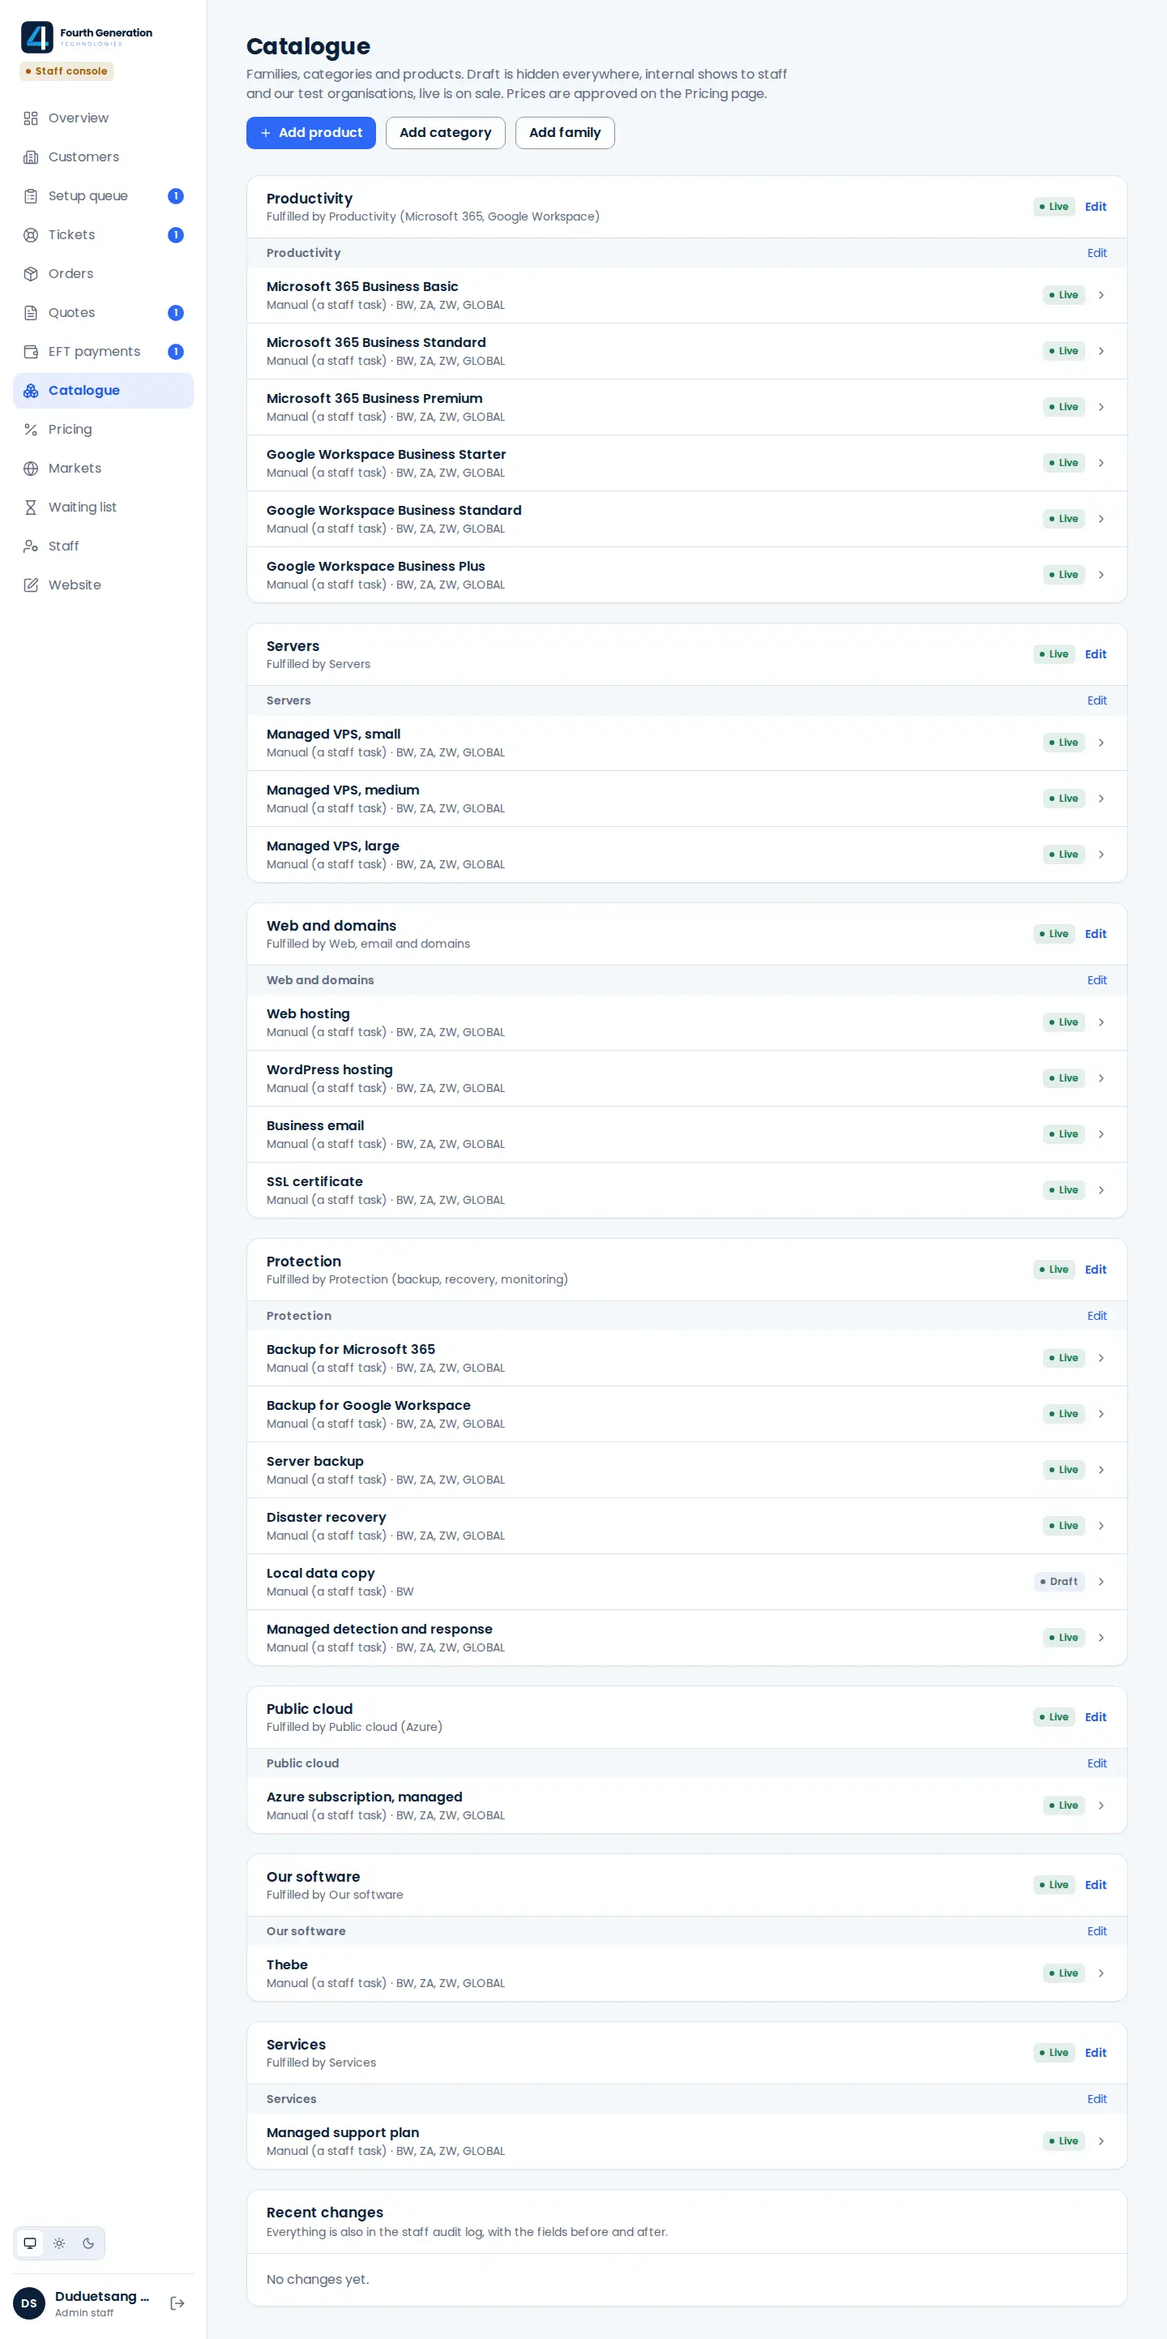
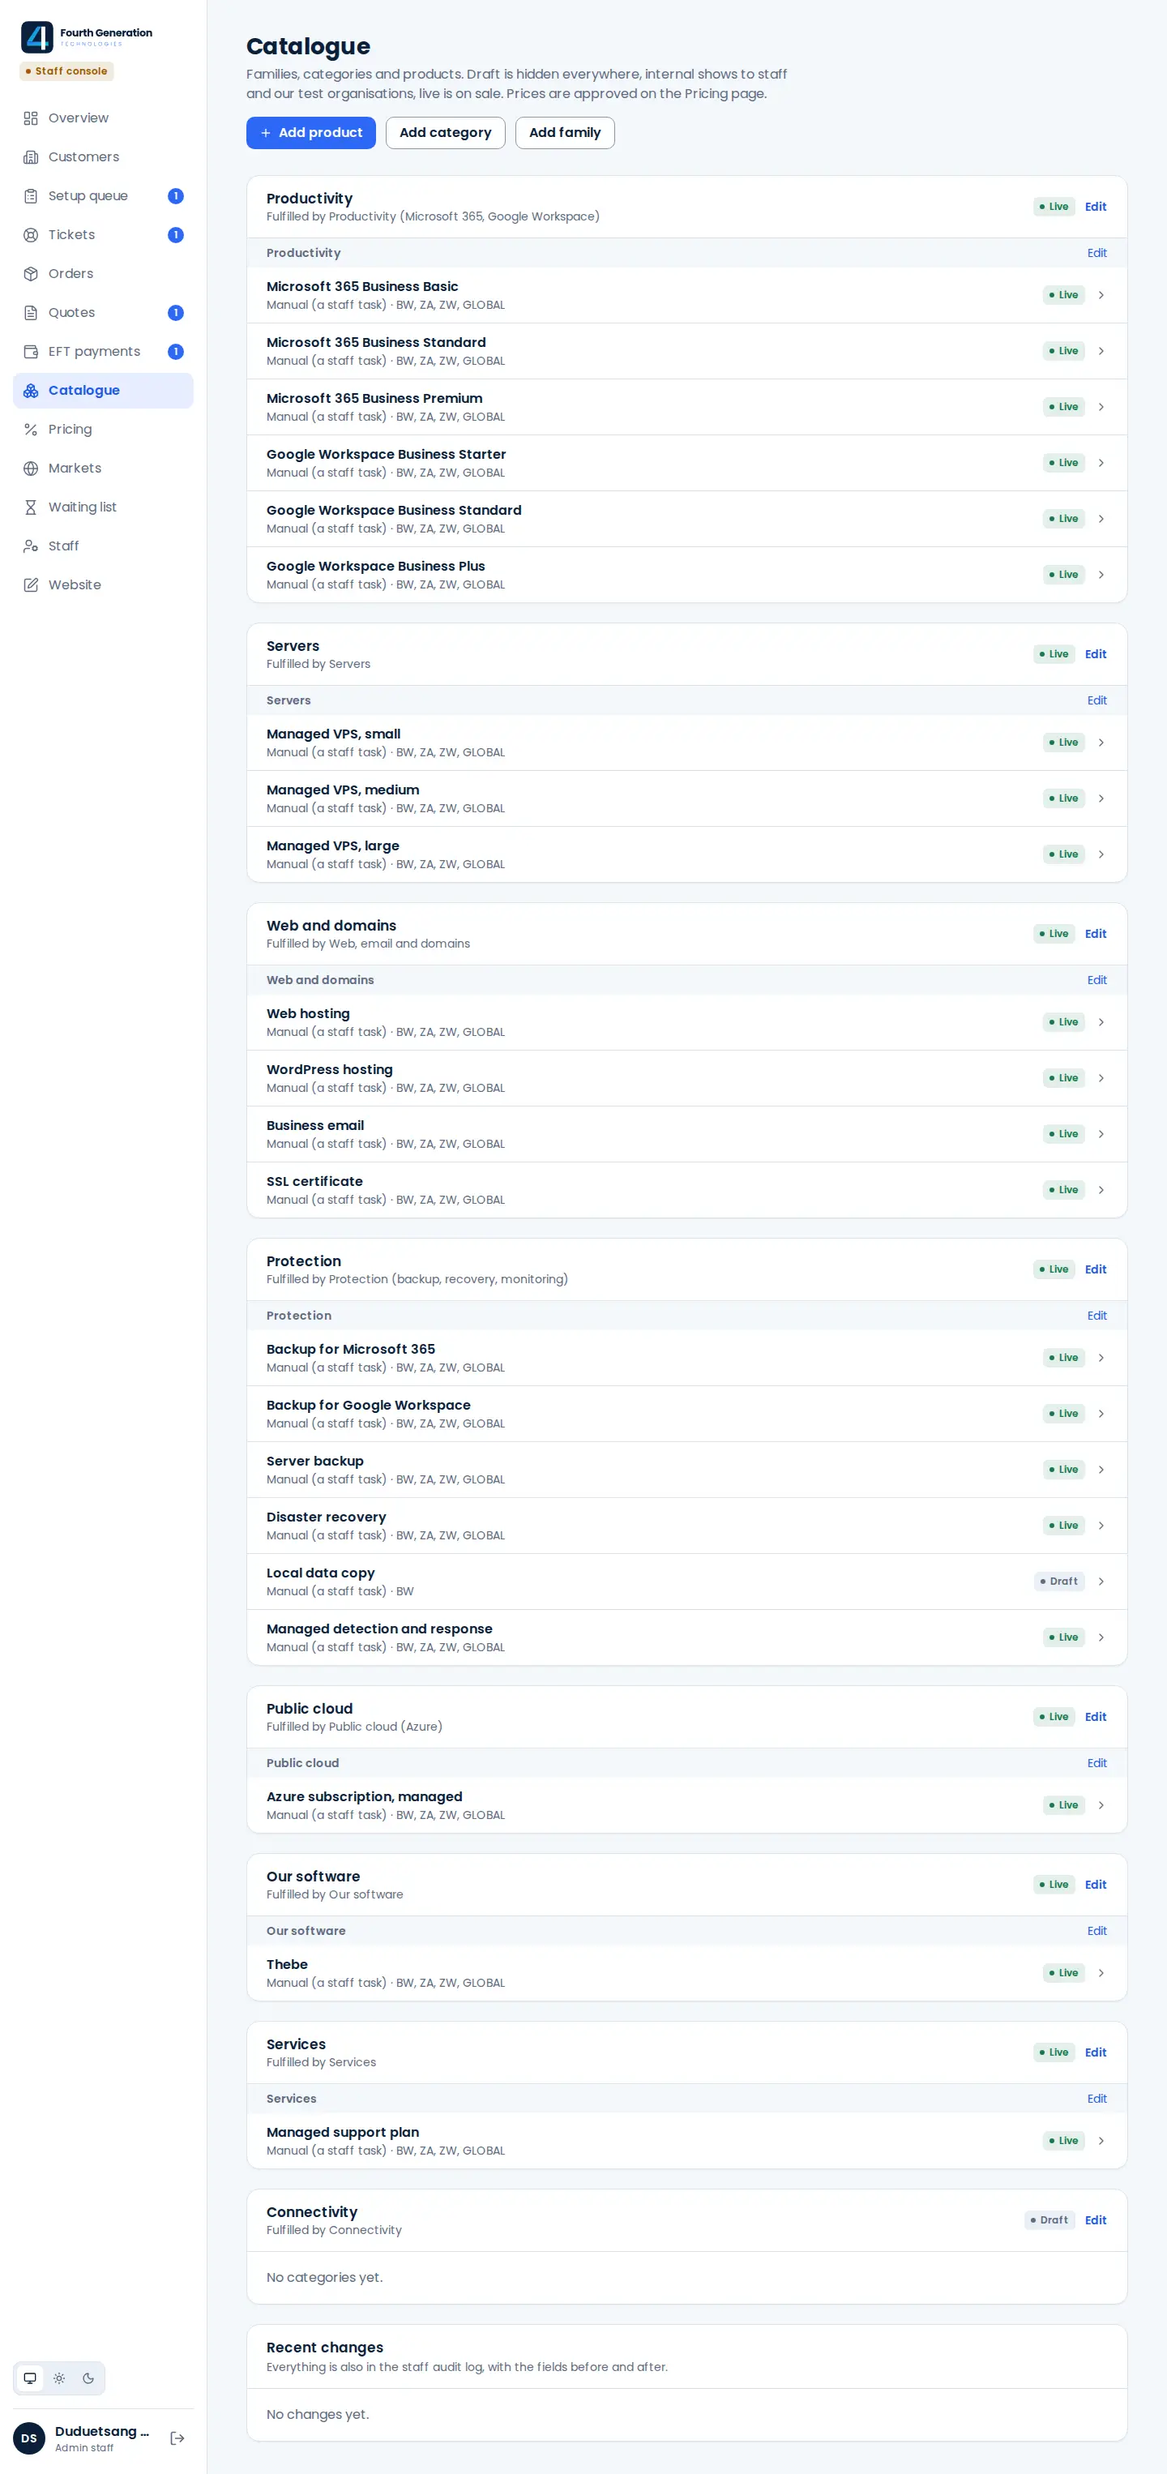
CR02 part 7: the Connectivity family
Adds Connectivity as a draft product family sold only by quote, with no
products and its own connector, hidden everywhere until an Admin sets it
live. A family can now say how all its products are sold. A new test
fails the build if internet, fibre, fiber or wireless appears in the
public site, the website seed content, the seeds or the console.

Claude-Session: https://claude.ai/code/session_01UhNK3Nd19ioVu9MXL1fYK2

diff --git a/src/server/admin/catalogue.ts b/src/server/admin/catalogue.ts
@@ -31,7 +31,10 @@ export const CONNECTOR_LABEL: Record<ConnectorFamily, string> = {
   PROTECTION: "Protection (backup, recovery, monitoring)",
   OUR_SOFTWARE: "Our software",
   SERVICES: "Services",
+  CONNECTIVITY: "Connectivity",
 };
+
+const FULFILMENT_WORDS: Record<Fulfilment, string> = { AUTOMATIC: "with automatic setup", MANUAL: "with setup by our team", QUOTE: "by quote" };
 
 export const FULFILMENT_LABEL: Record<Fulfilment, string> = { AUTOMATIC: "Automatic", MANUAL: "Manual (a staff task)", QUOTE: "Request a quote" };
 
@@ -104,6 +107,8 @@ export interface FamilyInput {
   description: string;
   connector: string;
   status: string;
+  /** "" lets each product choose; otherwise every product is sold this way. */
+  fulfilment?: string;
   sortOrder: string;
 }
 
@@ -136,9 +141,14 @@ export async function saveFamily(deps: CatalogueDeps, input: FamilyInput, existi
     description: text(input.description, "description", "a description", 200, errors),
     connector: input.connector as ConnectorFamily,
     status: input.status as CatalogueStatus,
+    fulfilment: (input.fulfilment || null) as Fulfilment | null,
     sortOrder: whole(input.sortOrder || "0", "sortOrder", "a position", 0, 999, errors),
   };
   if (!(input.connector in CONNECTOR_LABEL)) errors.connector = "Choose the connector that fulfils this family.";
+  if (data.fulfilment && !FULFILMENTS.includes(data.fulfilment)) errors.fulfilment = "Choose how its products are sold.";
+  else if (data.fulfilment === "AUTOMATIC" && data.connector in CONNECTOR_LABEL && !connectorFor(data.connector).automatic) {
+    errors.fulfilment = `The ${CONNECTOR_LABEL[data.connector]} connector can't set products up by itself yet.`;
+  }
   if (!STATUSES.includes(data.status)) errors.status = "Choose a status.";
   check(errors);
 
@@ -323,7 +333,9 @@ export async function saveProduct(deps: CatalogueDeps, input: ProductInput, exis
   if (!FULFILMENTS.includes(fields.fulfilment)) errors.fulfilment = "Choose how it is fulfilled.";
   if (!STATUSES.includes(fields.status)) errors.status = "Choose a status.";
   if (!fields.quantityAllowed) fields.minQuantity = 1;
-  if (category && fields.fulfilment === "AUTOMATIC" && !connectorFor(category.family.connector).automatic) {
+  if (category?.family.fulfilment && fields.fulfilment !== category.family.fulfilment) {
+    errors.fulfilment = `Everything in ${category.family.name} is sold ${FULFILMENT_WORDS[category.family.fulfilment]}.`;
+  } else if (category && fields.fulfilment === "AUTOMATIC" && !connectorFor(category.family.connector).automatic) {
     errors.fulfilment = `The ${CONNECTOR_LABEL[category.family.connector]} connector can't set products up by itself yet. Choose manual.`;
   }
   if (fields.status !== "DRAFT") {

diff --git a/tests/connectivity-words.test.ts b/tests/connectivity-words.test.ts
@@ -1,0 +1,58 @@
+import { readdirSync, readFileSync, statSync } from "node:fs";
+import { join } from "node:path";
+import { describe, expect, it } from "vitest";
+
+/**
+ * Change Request 02: until the Connectivity family is published, nothing
+ * the public or customers read may offer internet, fibre or wireless
+ * services. This scans the public site, the website editor's seed
+ * content, the catalogue and demo seeds, the console and its emails. The
+ * family's own name, "Connectivity", is the only word allowed.
+ */
+
+const BANNED = /\b(internet|fibre|fiber|wireless)\b/i;
+
+const ROOTS = [
+  // The public site and the console: pages, components, emails, the assistant's instructions.
+  "src/app",
+  "src/components",
+  "src/config",
+  "src/server",
+  // The website editor's seed content and blocks.
+  "src/cms",
+  // The demo seed and the catalogue migrations that add families and products.
+  "prisma/seed.ts",
+  "prisma/migrations",
+];
+const TEXT = /\.(tsx?|sql|json|md)$/;
+
+function* files(path: string): Generator<string> {
+  const s = statSync(path);
+  if (s.isFile()) {
+    if (TEXT.test(path) && !/\.test\.tsx?$/.test(path)) yield path;
+    return;
+  }
+  for (const name of readdirSync(path)) yield* files(join(path, name));
+}
+
+describe("connectivity words", () => {
+  it("appear nowhere in the site, the seeds or the console", () => {
+    const found: string[] = [];
+    for (const root of ROOTS) {
+      for (const file of files(root)) {
+        readFileSync(file, "utf8")
+          .split("\n")
+          .forEach((line, i) => {
+            const m = line.match(BANNED);
+            if (m) found.push(`${file}:${i + 1} says "${m[0]}"`);
+          });
+      }
+    }
+    expect(found).toEqual([]);
+  });
+
+  it("would catch one", () => {
+    for (const s of ["Fast Internet for your office", "fibre to the door", "Fiber links", "a wireless link"]) expect(BANNED.test(s)).toBe(true);
+    for (const s of ["Connectivity", "internetwork", "fibreglass"]) expect(BANNED.test(s)).toBe(false);
+  });
+});

diff --git a/src/server/catalogue/seed-data.ts b/src/server/catalogue/seed-data.ts
@@ -26,6 +26,9 @@ interface FamilySeed {
   description: string;
   connector: ConnectorFamily;
   sortOrder: number;
+  /** Live unless said otherwise. */
+  status?: "DRAFT";
+  fulfilment?: "QUOTE";
 }
 
 interface CategorySeed {
@@ -82,6 +85,8 @@ export const FAMILIES: FamilySeed[] = [
   { key: "public-cloud", name: "Public cloud", description: "Microsoft Azure.", connector: "PUBLIC_CLOUD", sortOrder: 5 },
   { key: "our-software", name: "Our software", description: "Software we build and run.", connector: "OUR_SOFTWARE", sortOrder: 6 },
   { key: "services", name: "Services", description: "Help from our team.", connector: "SERVICES", sortOrder: 7 },
+  // Sold by quote and hidden until an Admin sets it live; no products yet.
+  { key: "connectivity", name: "Connectivity", description: "Links between your sites and to the cloud, designed and priced for you.", connector: "CONNECTIVITY", sortOrder: 8, status: "DRAFT", fulfilment: "QUOTE" },
 ];
 
 export const CATEGORIES: CategorySeed[] = [
@@ -392,7 +397,7 @@ export const PLACEHOLDER_RATES: { base: string; quote: string; rateMicros: bigin
 export async function seedCatalogue(db: PrismaClient, billingIds: Partial<Record<StubProductKey, string>>, months: string[]) {
   const allMarkets = (await db.market.findMany({ orderBy: { sortOrder: "asc" }, select: { code: true } })).map((m) => m.code);
   for (const f of FAMILIES) {
-    await db.productFamily.upsert({ where: { key: f.key }, update: {}, create: { ...f, status: "LIVE" } });
+    await db.productFamily.upsert({ where: { key: f.key }, update: {}, create: { ...f, status: f.status ?? "LIVE" } });
   }
   for (const c of CATEGORIES) {
     await db.productCategory.upsert({ where: { key: c.key }, update: {}, create: c });

diff --git a/tests/catalogue-admin.test.ts b/tests/catalogue-admin.test.ts
@@ -144,6 +144,22 @@ describe.skipIf(!hasDb)("the staff catalogue", () => {
     });
   });
 
+  it("has a draft Connectivity family that sells only by quote", async () => {
+    const family = await db.productFamily.findUniqueOrThrow({ where: { key: "connectivity" } });
+    expect(family).toMatchObject({ name: "Connectivity", status: "DRAFT", fulfilment: "QUOTE", connector: "CONNECTIVITY" });
+    expect(await db.product.count({ where: { category: { familyKey: "connectivity" } } })).toBe(0);
+
+    const key = `conn-${id()}`;
+    await saveCategory(deps, { key, name: "Site links", description: "Links between your sites.", familyKey: "connectivity", sortOrder: "1", margin: "30" });
+    await expect(saveProduct(deps, productInput({ categoryKey: key, fulfilment: "MANUAL" }))).rejects.toMatchObject({ fieldErrors: { fulfilment: "Everything in Connectivity is sold by quote." } });
+    const { slug } = await saveProduct(deps, productInput({ categoryKey: key, fulfilment: "QUOTE", status: "LIVE" }));
+    // Live itself, but hidden while the family is a draft.
+    expect(await productBySlug(db, slug)).toBeNull();
+    expect((await marketplace(db, bw, month)).some((c) => c.category.key === key)).toBe(false);
+    await db.product.delete({ where: { slug } });
+    await db.productCategory.delete({ where: { key } });
+  });
+
   it("never changes an existing product when the seed runs again", async () => {
     await db.product.update({ where: { slug: "managed-vps-small" }, data: { name: "Managed VPS, small (renamed)" } });
     const ids = await seedStubCatalogue(db);

diff --git a/src/app/(frontend)/admin/(console)/catalogue/forms.tsx b/src/app/(frontend)/admin/(console)/catalogue/forms.tsx
@@ -50,8 +50,15 @@ export interface FamilyValues {
   description: string;
   connector: string;
   status: string;
+  fulfilment: string;
   sortOrder: string;
 }
+
+const FAMILY_FULFILMENT: Option[] = [
+  { value: "", label: "Each product chooses" },
+  { value: "MANUAL", label: "All set up by our team" },
+  { value: "QUOTE", label: "All by quote" },
+];
 
 export function FamilyForm({ family, connectors, existing }: { family: FamilyValues; connectors: Option[]; existing?: string }) {
   const [state, action, pending] = useActionState<ActionState, FormData>(saveFamilyAction, {});
@@ -67,6 +74,7 @@ export function FamilyForm({ family, connectors, existing }: { family: FamilyVal
         <TextField id="description" label="Description" defaultValue={v.description} error={fe.description} className="sm:col-span-2" />
         <SelectField id="connector" label="Fulfilled by" options={connectors} defaultValue={v.connector} error={fe.connector} hint="The connector that sets up its products." />
         <SelectField id="status" label="Status" options={STATUS_OPTIONS} defaultValue={v.status} error={fe.status} hint="A draft or internal family hides all its products as well." />
+        <SelectField id="fulfilment" label="How its products are sold" options={FAMILY_FULFILMENT} defaultValue={v.fulfilment} error={fe.fulfilment} />
         <TextField id="sortOrder" label="Position" inputMode="numeric" defaultValue={v.sortOrder} error={fe.sortOrder} hint="Lower numbers come first." />
       </div>
       <div>

diff --git a/src/app/(frontend)/admin/(console)/catalogue/products/new/page.tsx b/src/app/(frontend)/admin/(console)/catalogue/products/new/page.tsx
@@ -12,6 +12,8 @@ export const metadata: Metadata = { title: "Add a product" };
 export default async function NewProductPage({ searchParams }: { searchParams: Promise<{ category?: string }> }) {
   await requireStaffCan("manageCatalogue");
   const [{ category }, options] = await Promise.all([searchParams, productFormOptions(prisma)]);
+  // A family that sells everything one way (Connectivity: by quote) sets the default.
+  const familyFulfilment = category ? (await prisma.productCategory.findUnique({ where: { key: category }, select: { family: { select: { fulfilment: true } } } }))?.family.fulfilment : null;
   return (
     <>
       <BackToCatalogue />
@@ -38,7 +40,7 @@ export default async function NewProductPage({ searchParams }: { searchParams: P
               fixedPrice: "",
               fixedPriceCurrency: options.currencies[0]?.value ?? "",
               markets: options.markets.map((m) => m.value),
-              fulfilment: "MANUAL",
+              fulfilment: familyFulfilment ?? "MANUAL",
               status: "DRAFT",
               sortOrder: "100",
             }}

diff --git a/src/server/connectors/manual.ts b/src/server/connectors/manual.ts
@@ -50,6 +50,15 @@ const STEPS: Record<ConnectorFamily, Record<ConnectorRequest["work"], (r: Connec
     change_quantity: (r) => [`Update ${r.productName} to ${r.quantity}.`],
     cancel: (r) => [`End ${r.productName} after the notice period.`],
   },
+  CONNECTIVITY: {
+    provision: (r) => [
+      `Check the quote ${r.options.Quote ?? ""} for ${r.organisationName} and book the site survey.`.replace("  ", " "),
+      "Order the link from the carrier and add the expected date to the task notes.",
+      "Install and test it with the customer, record the handover in the task notes, and mark this done.",
+    ],
+    change_quantity: (r) => [`Change ${r.productName} from ${r.previousQuantity} to ${r.quantity} as quoted.`],
+    cancel: (r) => [`Give the carrier notice for ${r.productName} and collect our equipment at the end of the term.`],
+  },
 };
 
 const TITLES: Record<ConnectorRequest["work"], (r: ConnectorRequest) => string> = {

diff --git a/src/app/(frontend)/admin/(console)/catalogue/families/new/page.tsx b/src/app/(frontend)/admin/(console)/catalogue/families/new/page.tsx
@@ -16,7 +16,7 @@ export default async function NewFamilyPage() {
       <PageHeader title="Add a product family" description="A family groups categories fulfilled by one connector. It starts as a draft, so nothing in it shows until you make it internal or live." />
       <Card>
         <CardBody>
-          <FamilyForm connectors={CONNECTOR_OPTIONS} family={{ key: "", name: "", description: "", connector: "SERVICES", status: "DRAFT", sortOrder: "100" }} />
+          <FamilyForm connectors={CONNECTOR_OPTIONS} family={{ key: "", name: "", description: "", connector: "SERVICES", status: "DRAFT", fulfilment: "", sortOrder: "100" }} />
         </CardBody>
       </Card>
     </>

diff --git a/src/app/(frontend)/admin/(console)/catalogue/actions.ts b/src/app/(frontend)/admin/(console)/catalogue/actions.ts
@@ -22,7 +22,7 @@ const values = (form: FormData, keys: readonly string[]) => Object.fromEntries(k
 
 const saved = (changed: number) => (changed ? `Saved ${changed} ${changed === 1 ? "change" : "changes"}.` : "Nothing had changed.");
 
-const FAMILY_FIELDS = ["key", "name", "description", "connector", "status", "sortOrder"] as const;
+const FAMILY_FIELDS = ["key", "name", "description", "connector", "status", "fulfilment", "sortOrder"] as const;
 
 export async function saveFamilyAction(_prev: ActionState, form: FormData): Promise<ActionState> {
   const existing = field(form, "existing") || undefined;

diff --git a/src/app/(frontend)/admin/(console)/catalogue/families/[key]/page.tsx b/src/app/(frontend)/admin/(console)/catalogue/families/[key]/page.tsx
@@ -30,7 +30,7 @@ export default async function FamilyPage({ params, searchParams }: { params: Pro
           <FamilyForm
             existing={f.key}
             connectors={CONNECTOR_OPTIONS}
-            family={{ key: f.key, name: f.name, description: f.description, connector: f.connector, status: f.status, sortOrder: String(f.sortOrder) }}
+            family={{ key: f.key, name: f.name, description: f.description, connector: f.connector, status: f.status, fulfilment: f.fulfilment ?? "", sortOrder: String(f.sortOrder) }}
           />
         </CardBody>
       </Card>

diff --git a/src/server/connectors/registry.ts b/src/server/connectors/registry.ts
@@ -11,6 +11,7 @@ const CONNECTORS: Record<ConnectorFamily, ProductConnector> = {
   PROTECTION: new ManualConnector("PROTECTION"),
   OUR_SOFTWARE: new ManualConnector("OUR_SOFTWARE"),
   SERVICES: new ManualConnector("SERVICES"),
+  CONNECTIVITY: new ManualConnector("CONNECTIVITY"),
 };
 
 export function connectorFor(family: ConnectorFamily): ProductConnector {

diff --git a/docs/decisions.md b/docs/decisions.md
@@ -120,6 +120,7 @@ What the console assumes, decided or leaves out, for review before launch. Each 
 78. **Staff price a quote with lines, each monthly or once**, pick the product the order is placed as, and set the date it holds until (at most 90 days, 30 by default). Support and Admin staff work the queue. A quote is priced in one market's currency. Prices are before tax, which the invoice adds.
 79. **The emailed link is the key.** As with invitations, the link is made when the email is sent and only its hash is kept, so only the newest email works. Anyone with the link can read the quote and decline it. Changing a sent quote takes it back to New and stops its link working, so a customer only ever accepts what they were last sent.
 80. **Accepting needs an account and is an ordinary order.** From the link, a signed-in owner or admin takes the quote into their account (it must bill in the quote's currency), then accepts it with the same start-now consent as any order. The monthly lines are the service's monthly price; the one-off lines go on its first invoice (a new `oneOffLines` on billing orders, which WHMCS gets through UpdateInvoice). A quote past its date can't be accepted, and one can't be accepted twice.
+81. **Connectivity is a draft family sold by quote, with no products yet.** A family can say how all its products are sold; Connectivity says by quote, so a product added to it can't be anything else. It has its own connector (manual steps for now) and stays hidden everywhere until an Admin sets it live. Until then nothing on the public site, in the website editor's seed content, in the demo and catalogue seeds or in the console says internet, fibre, fiber or wireless: `tests/connectivity-words.test.ts` fails the build if one appears. "Connectivity" is the only word allowed.
 
 ## Carried over from the Phase 1 go-ahead
 
